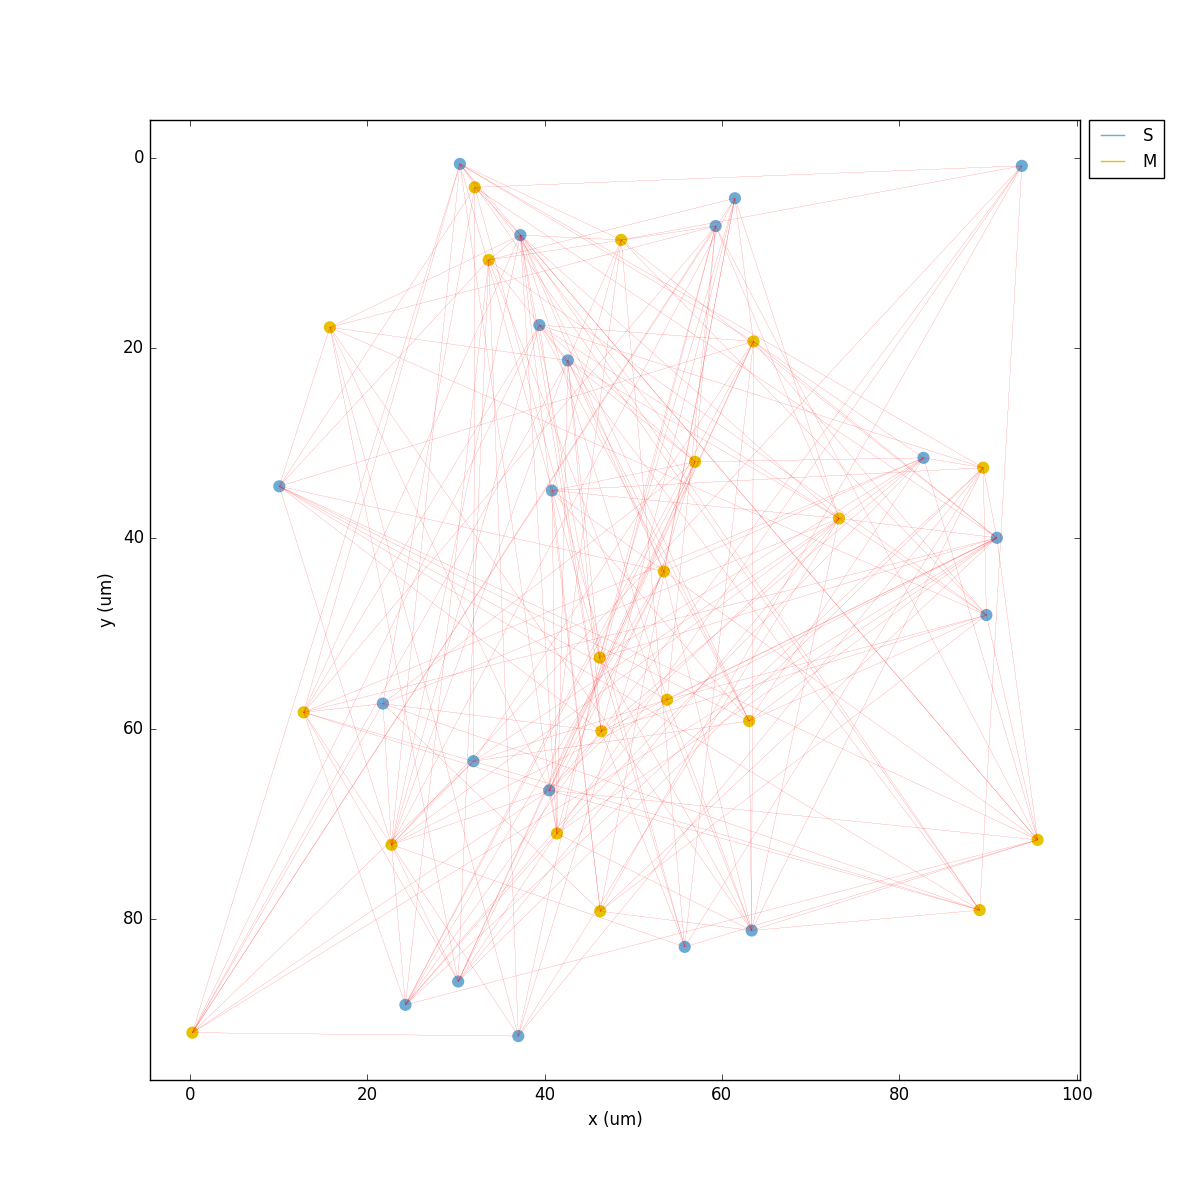
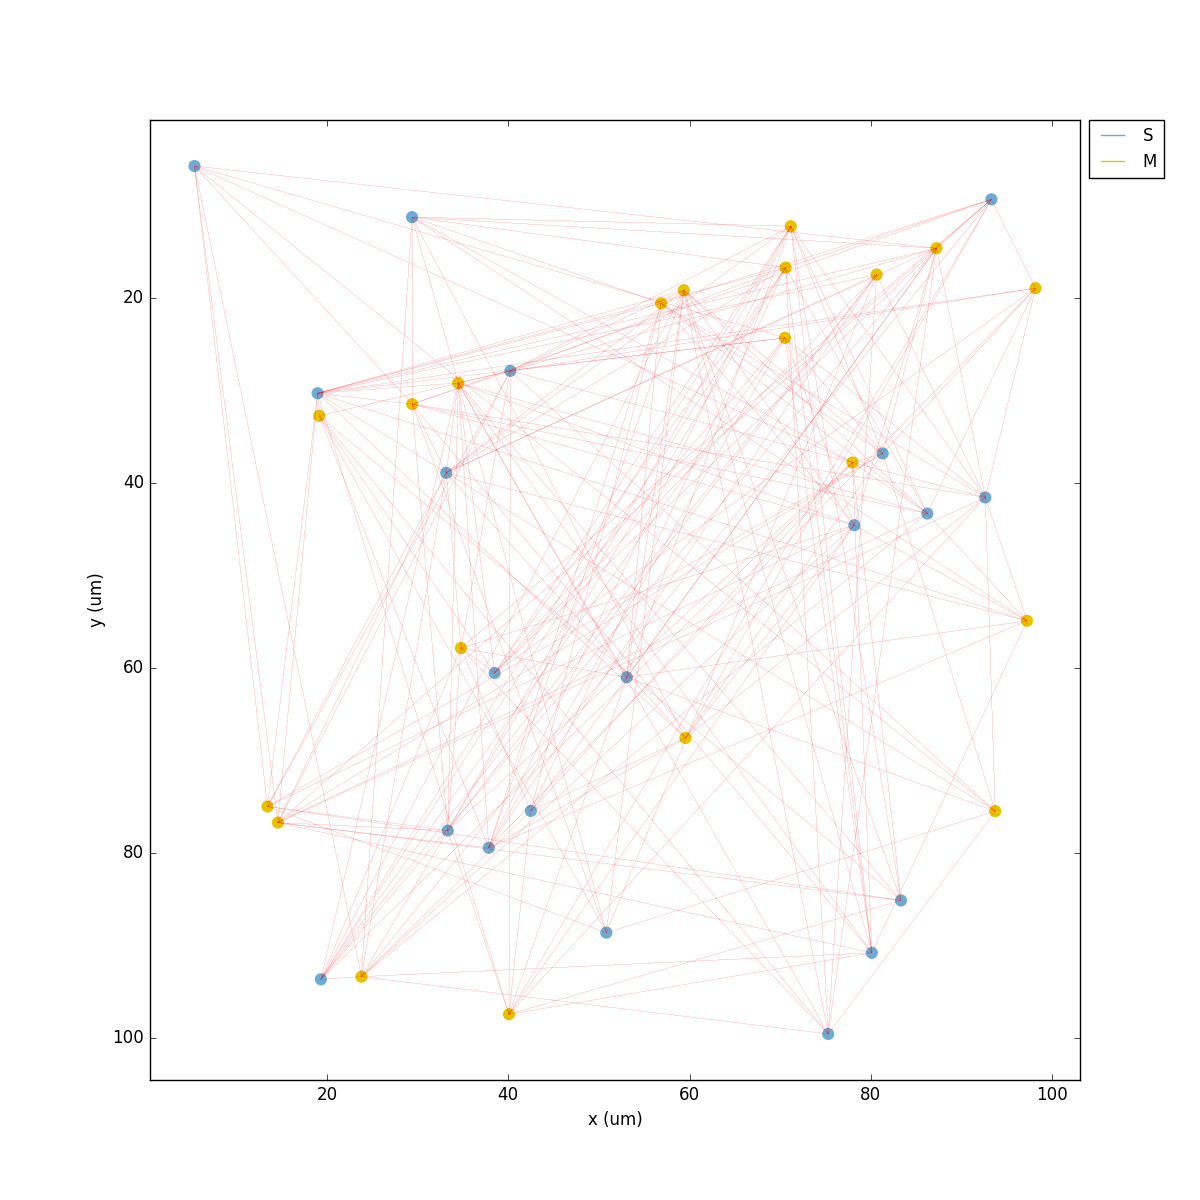
updated tut2 figs

diff --git a/netpyne/pop.py b/netpyne/pop.py
@@ -7,7 +7,7 @@ Contains Population related classes
 Contributors: salvadordura@gmail.com
 """
 
-from matplotlib.pylab import arange, seed, rand, array, pi, sqrt, sin, cos, arccos
+from matplotlib.pylab import  pi, sqrt, sin, cos, arccos
 import numpy as np
 from neuron import h # Import NEURON
 import sim
@@ -25,7 +25,8 @@ class Pop (object):
         self.tags = tags # list of tags/attributes of population (eg. numCells, cellModel,...)
         self.tags['pop'] = label
         self.cellGids = []  # list of cell gids beloging to this pop
-        self._setCellClass()
+        self._setCellClass()  # set type of cell
+        self.rand = h.Random()  # random number generator
 
 
     def _distributeCells(self, numCellsPop):
@@ -76,8 +77,12 @@ class Pop (object):
     def createCellsFixedNum (self):
         ''' Create population cells based on fixed number of cells'''
         cells = []
-        seed(sim.id32('%d'%(sim.cfg.seeds['loc']+self.tags['numCells']+sim.net.lastGid)))
-        randLocs = rand(self.tags['numCells'], 3)  # create random x,y,z locations
+        #seed(sim.id32('%d'%(sim.cfg.seeds['loc']+self.tags['numCells']+sim.net.lastGid)))
+        self.rand.Random123(self.tags['numCells'], sim.net.lastGid, sim.cfg.seeds['loc'])
+        self.rand.uniform(0, 1)
+        vec = h.Vector(self.tags['numCells']*3)
+        vec.setrand(self.rand)
+        randLocs = np.array(vec).reshape(self.tags['numCells'], 3)  # create random x,y,z locations
 
         if sim.net.params.shape == 'cylinder':
             # Use the x,z random vales 
@@ -166,16 +171,17 @@ class Pop (object):
                 maxRange = self.tags[coordFunc+'Range'][1]
 
                 interval = 0.001  # interval of location values to evaluate func in order to find the max cell density
-                maxDensity = max(map(densityFunc, (arange(minRange, maxRange, interval))))  # max cell density 
+                maxDensity = max(map(densityFunc, (np.arange(minRange, maxRange, interval))))  # max cell density 
                 maxCells = volume * maxDensity  # max number of cells based on max value of density func 
                 
-                seed(sim.id32('%d' % sim.cfg.seeds['loc']+sim.net.lastGid))  # reset random number generator
-                locsAll = minRange + ((maxRange-minRange)) * rand(int(maxCells), 1)  # random location values 
-                locsProb = array(map(densityFunc, locsAll)) / maxDensity  # calculate normalized density for each location value (used to prune)
-                allrands = rand(len(locsProb))  # create an array of random numbers for checking each location pos 
+                # seed(sim.id32('%d' % sim.cfg.seeds['loc']+sim.net.lastGid))  # reset random number generator
+                self.rand.Random123(int(maxDensity), sim.net.lastGid, sim.cfg.seeds['loc'])
+                locsAll = minRange + ((maxRange-minRange)) * np.array([self.rand.uniform(0, 1) for i in range(int(maxCells))])  # random location values 
+                locsProb = np.array(map(densityFunc, locsAll)) / maxDensity  # calculate normalized density for each location value (used to prune)
+                allrands = np.array([self.rand.uniform(0, 1) for i in range(len(locsProb))])  # create an array of random numbers for checking each location pos 
                 
                 makethiscell = locsProb>allrands  # perform test to see whether or not this cell should be included (pruning based on density func)
-                funcLocs = [locsAll[i] for i in range(len(locsAll)) if i in array(makethiscell.nonzero()[0],dtype='int')] # keep only subset of yfuncLocs based on density func
+                funcLocs = [locsAll[i] for i in range(len(locsAll)) if i in np.array(makethiscell.nonzero()[0],dtype='int')] # keep only subset of yfuncLocs based on density func
                 self.tags['numCells'] = len(funcLocs)  # final number of cells after pruning of location values based on density func
                 if sim.cfg.verbose: print 'Volume=%.2f, maxDensity=%.2f, maxCells=%.0f, numCells=%.0f'%(volume, maxDensity, maxCells, self.tags['numCells'])
             else:
@@ -185,8 +191,11 @@ class Pop (object):
             self.tags['numCells'] = int(self.tags['density'] * volume)  # = density (cells/mm^3) * volume (mm^3)
 
         # calculate locations of cells 
-        seed(sim.id32('%d'%(sim.cfg.seeds['loc']+self.tags['numCells']+sim.net.lastGid)))
-        randLocs = rand(self.tags['numCells'], 3)  # create random x,y,z locations
+        self.rand.Random123(self.tags['numCells'], sim.net.lastGid, sim.cfg.seeds['loc'])
+        self.rand.uniform(0, 1)
+        vec = h.Vector(self.tags['numCells']*3)
+        vec.setrand()
+        randLocs = np.array(vec).reshape(self.tags['numCells'], 3)  # create random x,y,z locations
 
         if sim.net.params.shape == 'cylinder':
             # Use the x,z random vales 
@@ -269,7 +278,6 @@ class Pop (object):
     def createCellsGrid (self):
         ''' Create population cells based on fixed number of cells'''
         cells = []
-        seed(sim.id32('%d'%(sim.cfg.seeds['loc']+self.tags['gridSpacing']+sim.net.lastGid)))
         
         rangeLocs = [[0, getattr(sim.net.params, 'size'+coord)] for coord in ['X','Y','Z']]
         for icoord, coord in enumerate(['x', 'y', 'z']):
